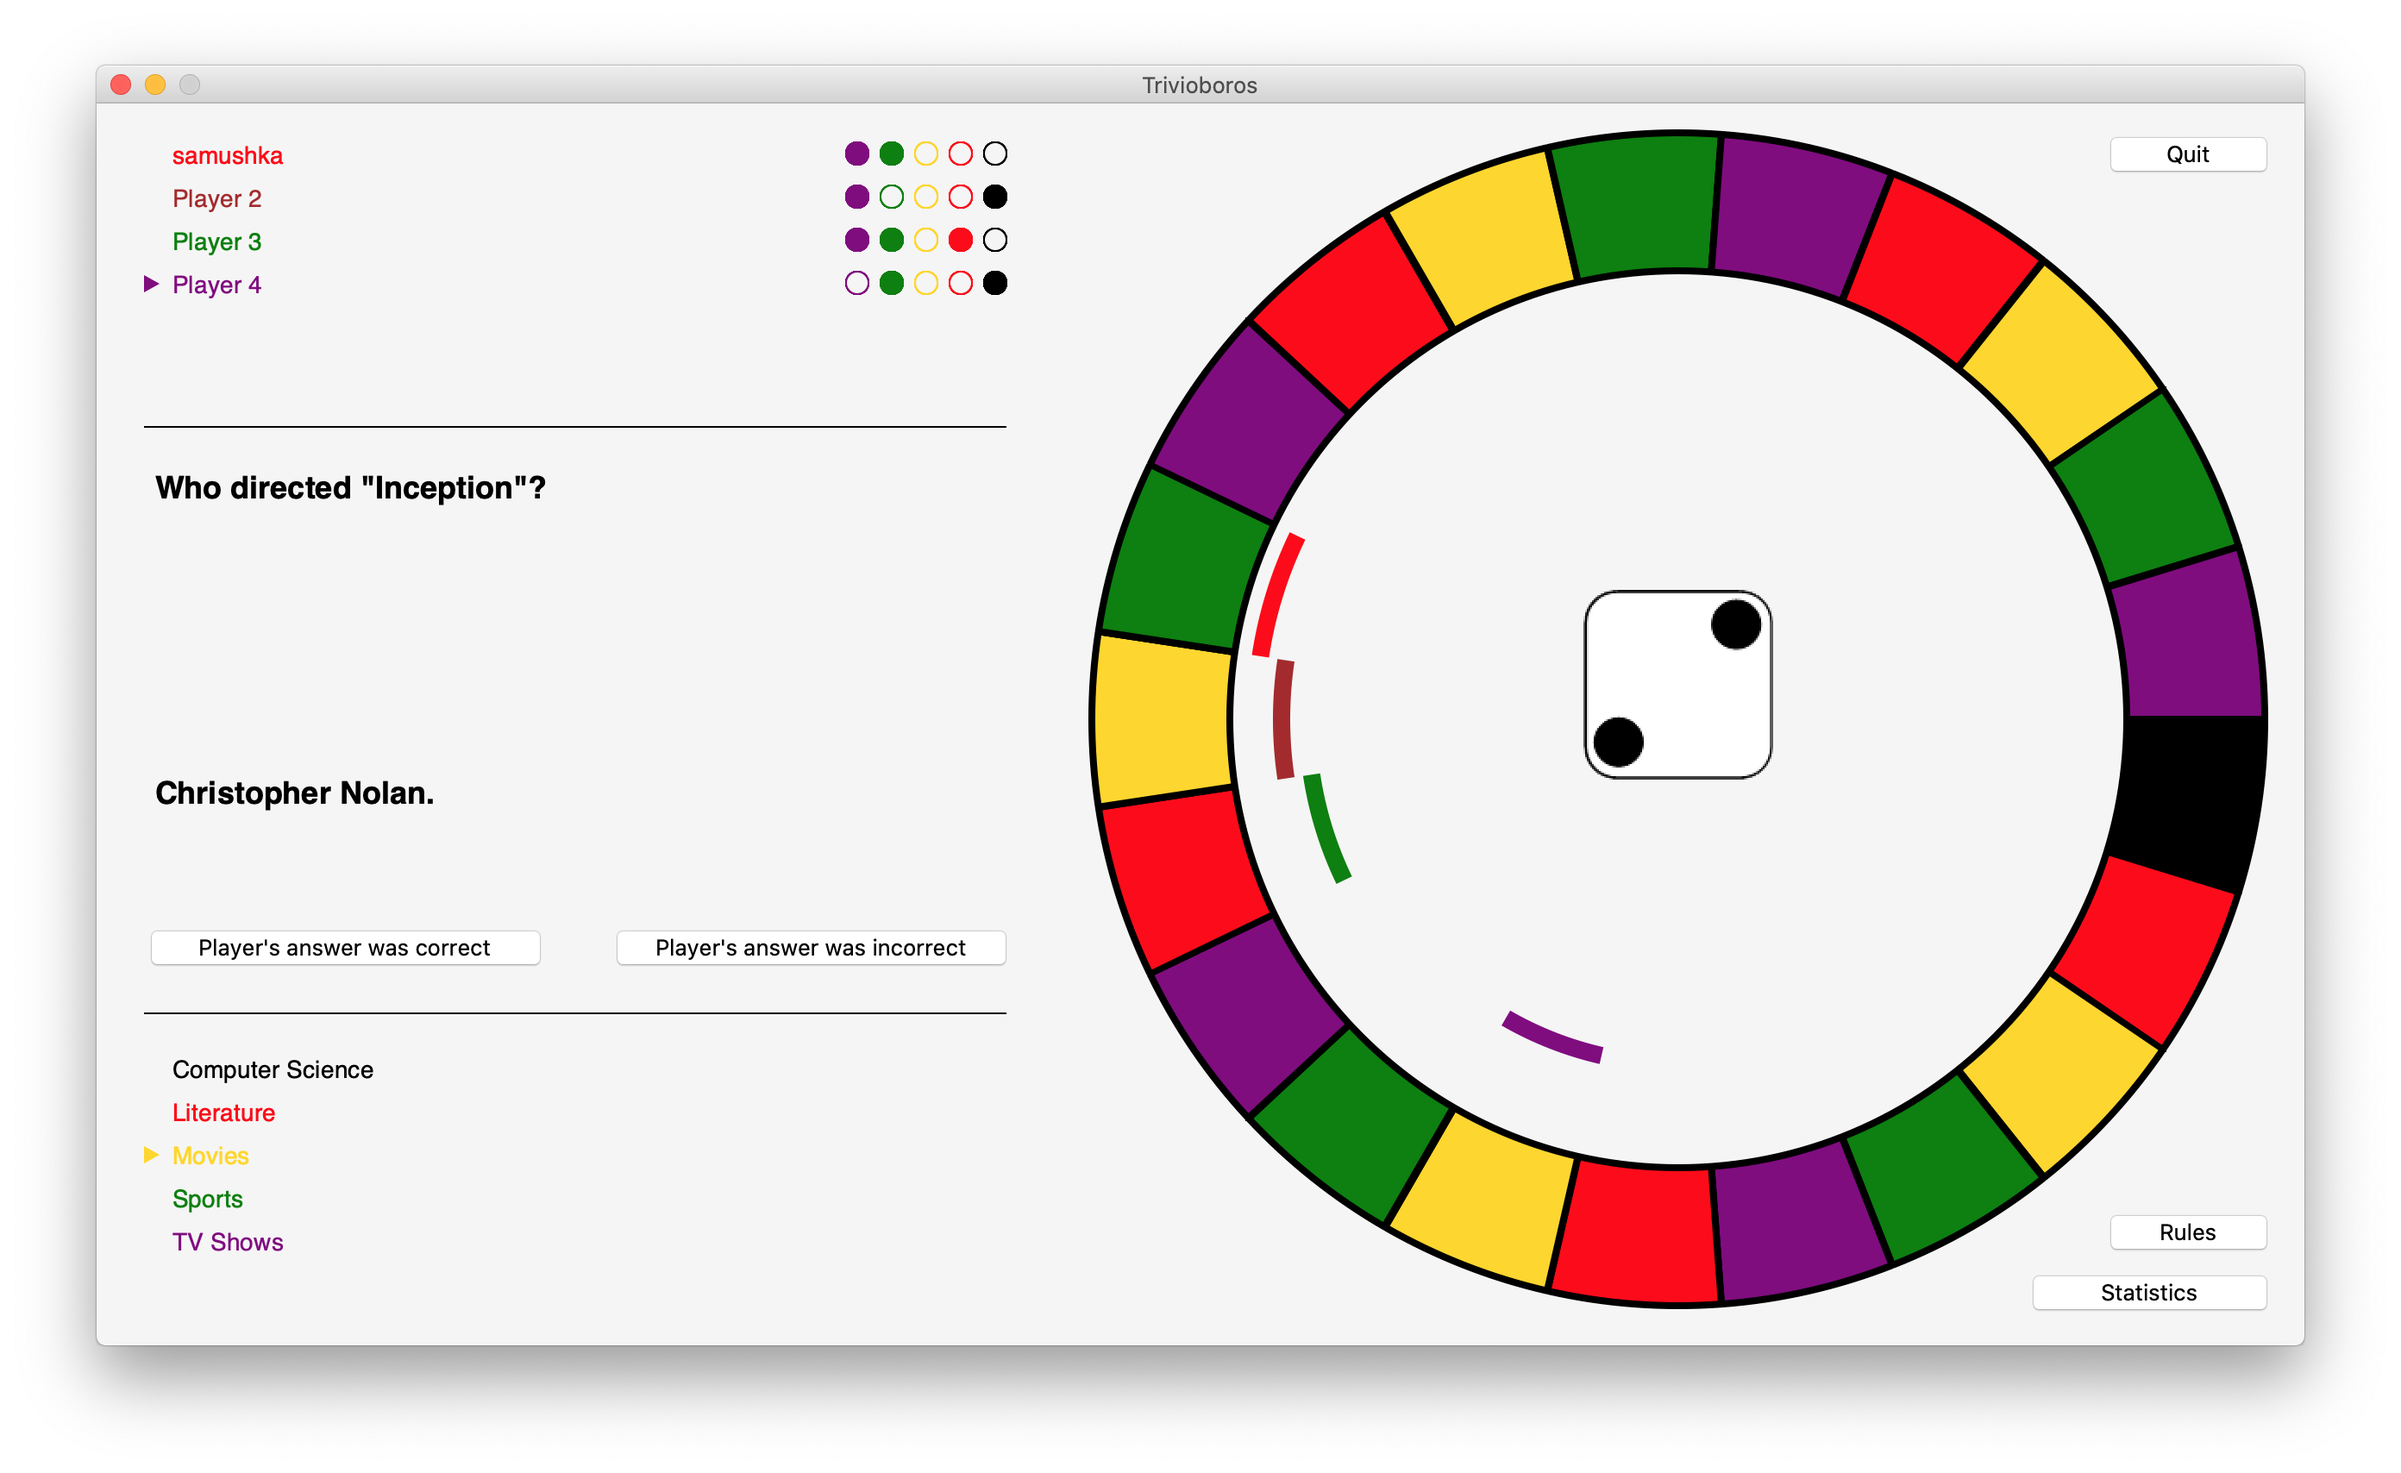
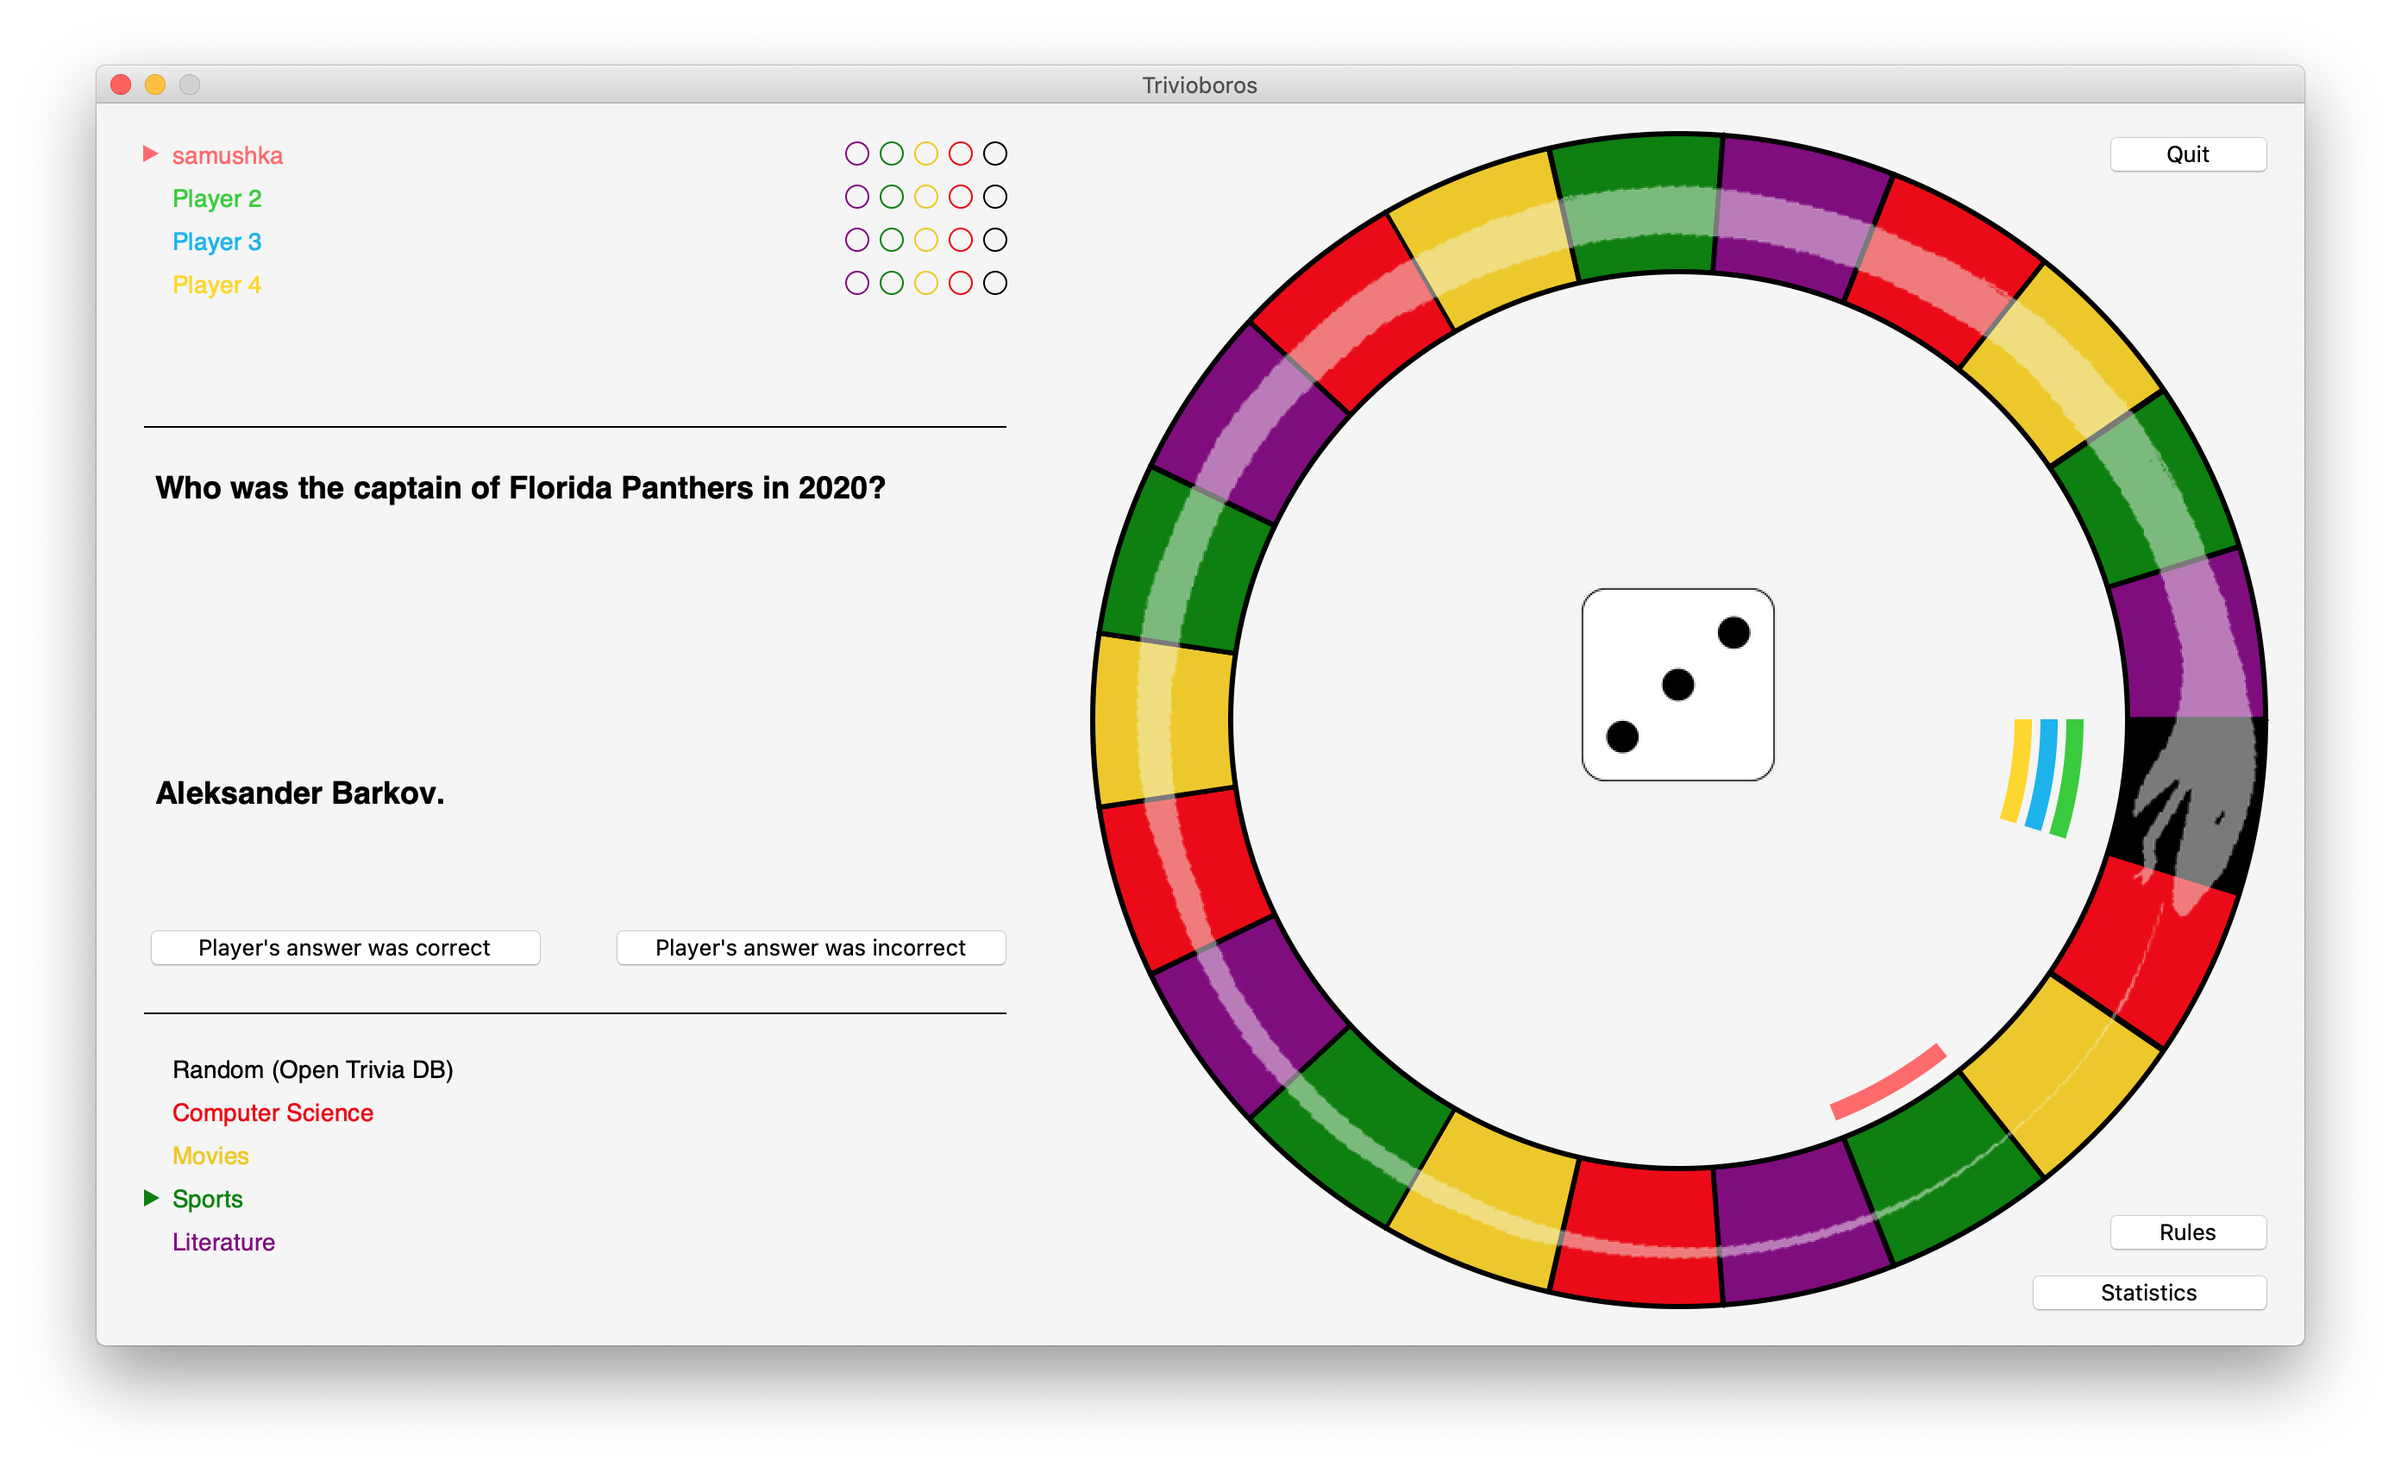
updated documentation and ui stylings

diff --git a/src/tests/settings_services_test.py b/src/tests/settings_services_test.py
@@ -41,7 +41,7 @@ class TestSettingsServices(unittest.TestCase):
 
     def test_get_default_player_colors(self):
         self.assertEqual(len(self.service.get_default_player_colors()), 6)
-        self.assertEqual(self.service.get_default_player_colors()[0], "red")
+        self.assertEqual(self.service.get_default_player_colors()[0], "IndianRed1")
 
     def test_get_default_board_sizes(self):
         self.assertEqual(len(self.service.get_default_board_sizes()), 6)
@@ -54,7 +54,7 @@ class TestSettingsServices(unittest.TestCase):
 
     def test_get_default_category_colors(self):
         self.assertEqual(len(self.service.get_default_category_colors()), 12)
-        self.assertEqual(self.service.get_default_category_colors()[0], "white")
+        self.assertEqual(self.service.get_default_category_colors()[0], "black")
 
     def test_get_default_difficulties(self):
         self.assertEqual(len(self.service.get_default_difficulties()), 3)
@@ -81,7 +81,7 @@ class TestSettingsServices(unittest.TestCase):
 
     def test_collect_player_color_settings(self):
         self.assertEqual(len(self.service.collect_player_color_settings()), 6)
-        self.assertEqual(self.service.collect_player_color_settings()[0], "red")
+        self.assertEqual(self.service.collect_player_color_settings()[0], "IndianRed1")
 
     def test_collect_category_settings(self):
         entry_field_1 = combobox()
@@ -101,7 +101,7 @@ class TestSettingsServices(unittest.TestCase):
 
     def test_collect_category_color_settings(self):
         self.assertEqual(len(self.service.collect_category_color_settings()), 12)
-        self.assertEqual(self.service.collect_category_color_settings()[0], "white")
+        self.assertEqual(self.service.collect_category_color_settings()[0], "black")
 
     def test_collect_board_size_settings(self):
         selected_board_size = combobox()
@@ -124,8 +124,11 @@ class TestSettingsServices(unittest.TestCase):
     def test_check_category_number_validity(self):
         self.assertEqual(self.service.check_category_number_validity(), False)
 
-    def test_check_internet_connection(self):
-        self.assertEqual(self.service.check_internet_connection(), True)
+    def test_check_otdb_connection_is_working(self):
+        self.assertEqual(self.service.check_otdb_connection(), True)
+
+    def test_check_otdb_connection_is_not_working(self):
+        self.assertEqual(self.service.check_otdb_connection(0.0001), False)
 
     def test_handle_logout(self):
         self.assertEqual(len(self.database.get_logged_in_user()), 1)

diff --git a/src/services/settings_services.py b/src/services/settings_services.py
@@ -57,12 +57,12 @@ class SettingsServices:
         """
 
         default_player_colors = [
-            "red",
-            "brown",
-            "green",
-            "purple",
-            "orange",
-            "blue",
+            "IndianRed1",
+            "lime green",
+            "DeepSkyBlue2",
+            "gold",
+            "DarkOrchid1",
+            "chocolate1",
         ]
 
         return default_player_colors
@@ -124,18 +124,18 @@ class SettingsServices:
         """
 
         self.category_colors = [
-            "white",
-            "red",
-            "gold",
+            "black",
+            "red2",
+            "gold2",
             "green",
             "purple",
             "orange",
-            "blue",
-            "grey",
             "brown",
-            "pink",
-            "magenta",
-            "turquoise",
+            "RoyalBlue3",
+            "slate grey",
+            "OrangeRed3",
+            "maroon2",
+            "cyan4",
         ]
 
         return self.category_colors
@@ -287,9 +287,19 @@ class SettingsServices:
 
         return bool(len(self.categories) >= 2)
 
-    def check_internet_connection(self):
+    def check_otdb_connection(self, timeout=3):
+        """Checks connection to the Open Trivia Database servers.
+
+        Args:
+            timeout (int, optional): Time in seconds after which
+            a timeout-related connection error is raised. Defaults to 3.
+
+        Returns:
+            True, if the connection is ok, or False, if not.
+        """
+
         try:
-            requests.get("https://www.google.com/", timeout=2)
+            requests.get("https://opentdb.com/", timeout=timeout)
             return True
         except (requests.ConnectionError, requests.Timeout):
             return False

diff --git a/src/ui/settings_view.py b/src/ui/settings_view.py
@@ -13,7 +13,7 @@ from ui.dialogs import (
     show_player_name_error_dialog,
     show_category_number_error_dialog,
     show_about_otdb_dialog,
-    show_no_internet_connection_dialog,
+    show_no_otdb_connection_dialog,
 )
 from ui.stylings import (
     get_window_settings,
@@ -187,8 +187,8 @@ class SettingsView:
             self.service.check_player_number_validity(),
             self.service.check_player_names_validity(),
             self.service.check_category_number_validity(),
-        ]) and (bool(self.service.check_internet_connection()) or all([
-            self.service.check_internet_connection() is False,
+        ]) and (bool(self.service.check_otdb_connection()) or all([
+            self.service.check_otdb_connection() is False,
             "Random (Open Trivia DB)" not in self.service.categories,
         ])):
             self.service.handle_session_save(players, categories, board_size)
@@ -203,8 +203,8 @@ class SettingsView:
             show_player_name_error_dialog()
         elif self.service.check_category_number_validity() is False:
             show_category_number_error_dialog()
-        elif self.service.check_internet_connection() is False:
-            show_no_internet_connection_dialog()
+        elif self.service.check_otdb_connection() is False:
+            show_no_otdb_connection_dialog()
         self.window.focus()
 
     def _open_questions_view(self):

diff --git a/src/ui/dialogs.py b/src/ui/dialogs.py
@@ -48,11 +48,14 @@ def show_no_users_dialog():
             "There are currently no users on this device.",
         )
 
-def show_no_internet_connection_dialog():
+def show_no_otdb_connection_dialog():
     return messagebox.showinfo(
-            "No internet connection",
-            "It seems that this device is not connected to the internet.\
-            \n\nYou can still play, just without any Open Trivia DB categories.\
+            "Connection Error",
+            "Could not connect to the Open Trivia Database.\
+            \n\nThere are two possible reasons for this:\
+            \n1. This device is not connected to the internet.\
+            \n2. The Open Trivia Database servers are down.\
+            \n\nIn any case, you can still play, but without any Open Trivia DB categories.\
             \n\nIf you don't have any other categories, now might be a good time to create some.\n",
         )
 

diff --git a/src/services/game_services.py b/src/services/game_services.py
@@ -201,7 +201,7 @@ class GameServices:
 
     def _get_otdb_question_item_category(self):
         """Calls the Open Trivia API to get a random question item and
-        provides its category. 
+        provides its category.
 
         Returns:
             category (str): The current category.

diff --git a/dokumentaatio/kayttoohje.md b/dokumentaatio/kayttoohje.md
@@ -4,7 +4,7 @@
 
 1. Lataa uusin [release](https://github.com/samushka13/ot-harjoitustyo/releases).
 
-2. Varmista, että koneellasi on asianmukainen Python-versio (^3.6) ja Poetry-versio (^1.1.5 suositeltu).
+2. Varmista, että koneellasi on asianmukainen [Python](https://www.python.org/)-versio (^3.6) ja [Poetry](https://python-poetry.org/)-versio (^1.1.5 suositeltu).
 
 3. Asenna projektin riippuvuudet komennolla:
 
@@ -24,7 +24,7 @@ Mikäli pelisessioon valitaan kategoria "Random (Open Trivia DB)", joka hakee ti
 
 Sovellus luo käynnistymisensä yhteydessä tietojen tallennukseen käytettävät tietokantatiedostot automaattisesti juurihakemiston yläpuoleiseen kansioon, jossa esimerkiksi projektin README sijaitsee, mikäli kyseisiä tiedostoja ei vielä ole. Tiedostojen nimiä voi tarvittaessa muokata [konfiguraatiotiedostossa](https://github.com/samushka13/ot-harjoitustyo/blob/master/config.txt), joka löytyy projektin juurihakemiston yläpuoleisesta kansiosta.
 
-Nimet on oltava mallia "tiedoston_nimi.db", eli konfiguraatiotiedostossa tulee muokata käytännössä vain yhtäsuuruusmerkkien ja pisteiden välisiä alueita. Mikäli tiedoston nimi on kirjoitettu virheellisesti, sovellus luo tietokantatiedostot oletusarvoisilla nimillä "trivioboros.db" ja "trivioboros_tests.db".
+Nimet on oltava mallia "tiedoston_nimi.db", eli konfiguraatiotiedostossa tulee muokata käytännössä vain yhtäsuuruusmerkkien ja pisteiden välisiä alueita. Mikäli tiedoston nimi on kirjoitettu virheellisesti, sovellus luo tiedoston oletusarvoisella nimellä "trivioboros.db" tai "trivioboros_tests.db" riippuen siitä, kummasta tiedostosta on kyse.
 
 Mikäli sovelluksen käyttöliittymän ikkunat näyttävät pienehköiltä, kannattaa kokeilla näytön resoluution muuttamista. Valitettavasti sovellus ei taivu ikkunan koon muuttamiseen, sillä erityisesti pelinäkymän kohdalla tämä olisi tuottanut huomattavan määrän toteutuksellisia haasteita.
 
@@ -53,9 +53,10 @@ Kirjautumisen jälkeen avautuu valikkonäkymä, jossa voi esimerkiksi valita pel
 
 Painikkeet:
 
-- "Rules": näyttää pelin säännöt.
 - "Logout": kirjaa ulos ja avaa kirjautumisnäkymän.
 - "Custom Content": avaa omien kysymysten hallinnointinäkymän.
+- "Rules": näyttää pelin säännöt.
+- "About Open Trivia DB": näyttää lisätietoja [Open Trivia Databasesta](https://opentdb.com/).
 - "Start Game": aloittaa pelin valituilla asetuksilla.
 
 ### Omat kysymykset
@@ -97,13 +98,15 @@ Painikkeet:
 - "Rules": näyttää pelin säännöt.
 - "Statistics": näyttää pelinaikaiset tilastot.
 
-Nopan 'heittämisen' jälkeen pelivuorossa oleva pelaaja siirtyy automaattisesti nopan osoittaman silmäluvun verrran pelilaudalla. Samalla näkymän vasempaan osaan ilmestyy pelilaudan kategoriaruutua vastaava kysymys. Kun pelaaja on vastannut kysymykseen, oikea vastaus saadaan esiin "Show answer" -painikkeella.
-
-Kun peli jatkuu jonkin aikaa, se voi näyttää esimerkiksi alla olevan kuvan kaltaiselta. Kuten huomataan, pelaajat ovat saaneet joihinkin kategorioihin pisteitä.
+Nopan 'heittämisen' jälkeen pelivuorossa oleva pelaaja siirtyy automaattisesti nopan osoittaman silmäluvun verrran pelilaudalla. Samalla näkymän vasempaan osaan ilmestyy pelilaudan kategoriaruutua vastaava kysymys. 
 
 ![Game Question](screenshots/game_question.png)
 
-Oikean vastauksen lisäksi näkymään ilmestyy myös painikkeet, joilla pelaajan vastaus vahvistetaan joko oikeaksi tai vääräksi:
+Painikkeet:
+
+- "Show answer": näyttää oikean vastauksen kysymykseen.
+
+Kun pelaaja on vastannut kysymykseen, oikea vastaus saadaan esiin "Show answer" -painikkeella. Tämän jälkeen näkymään ilmestyy oikea vastaus ja painikkeet, joilla pelaajan vastaus vahvistetaan joko oikeaksi ("Player's answer was correct") tai vääräksi ("Player's answer was incorrect").
 
 ![Game Answer](screenshots/game_answer.png)
 
@@ -111,6 +114,14 @@ Painikkeet:
 
 - "Player's answer was correct": pelaaja saa kategoriapisteen, mikäli kategoriassa ei vielä ole pistettä.
 - "Player's answer was incorrect": pelaaja menettää kategoriapisteen, mikäli kategoriassa on piste.
+
+Tässä tapauksessa pelaaja vastasi oikein, joten tämä sai pisteen kyseiseen kategoriaan. Vuoro päättyy, ja tilanne näyttää seuraavanlaiselta:
+
+![Game Turn End](screenshots/game_turn_end.png)
+
+Kun peli jatkuu jonkin aikaa, se voi näyttää esimerkiksi alla olevan kuvan kaltaiselta. Kuten vasemmasta ylälaidasta huomataan, pelaajat ovat saaneet jo monia kategoriapisteitä.
+
+![Game Progression](screenshots/game_progression.png)
 
 Peli päättyy, kun yksi pelaajista pääsee aloitusruutuun tai sen yli kaikkien kategoriapisteiden kera. Esimerkiksi alla olevassa kuvassa pelaaja nimeltä "samushka" on voittanut pelin.
 

diff --git a/dokumentaatio/tyoaikakirjanpito.md b/dokumentaatio/tyoaikakirjanpito.md
@@ -35,5 +35,5 @@
 |  8.5. |  1  | Testausdokumentti lisätty.                                          |
 |  8.5. |  2  | Koodin, testien ja dokumentaation kiillottelua.                     |
 |  9.5. |  4  | Kysymysten hakeminen Open Trivia Databasesta toteutettu.            |
-| 10.5. |  1  | Dokumentaatiota päivitetty. UI:n parantelua.                        |
-|  yht. | 92  |                                                                     |
+| 10.5. |  2  | Dokumentaatiota päivitetty. UI:n parantelua.                        |
+|  yht. | 93  |                                                                     |
